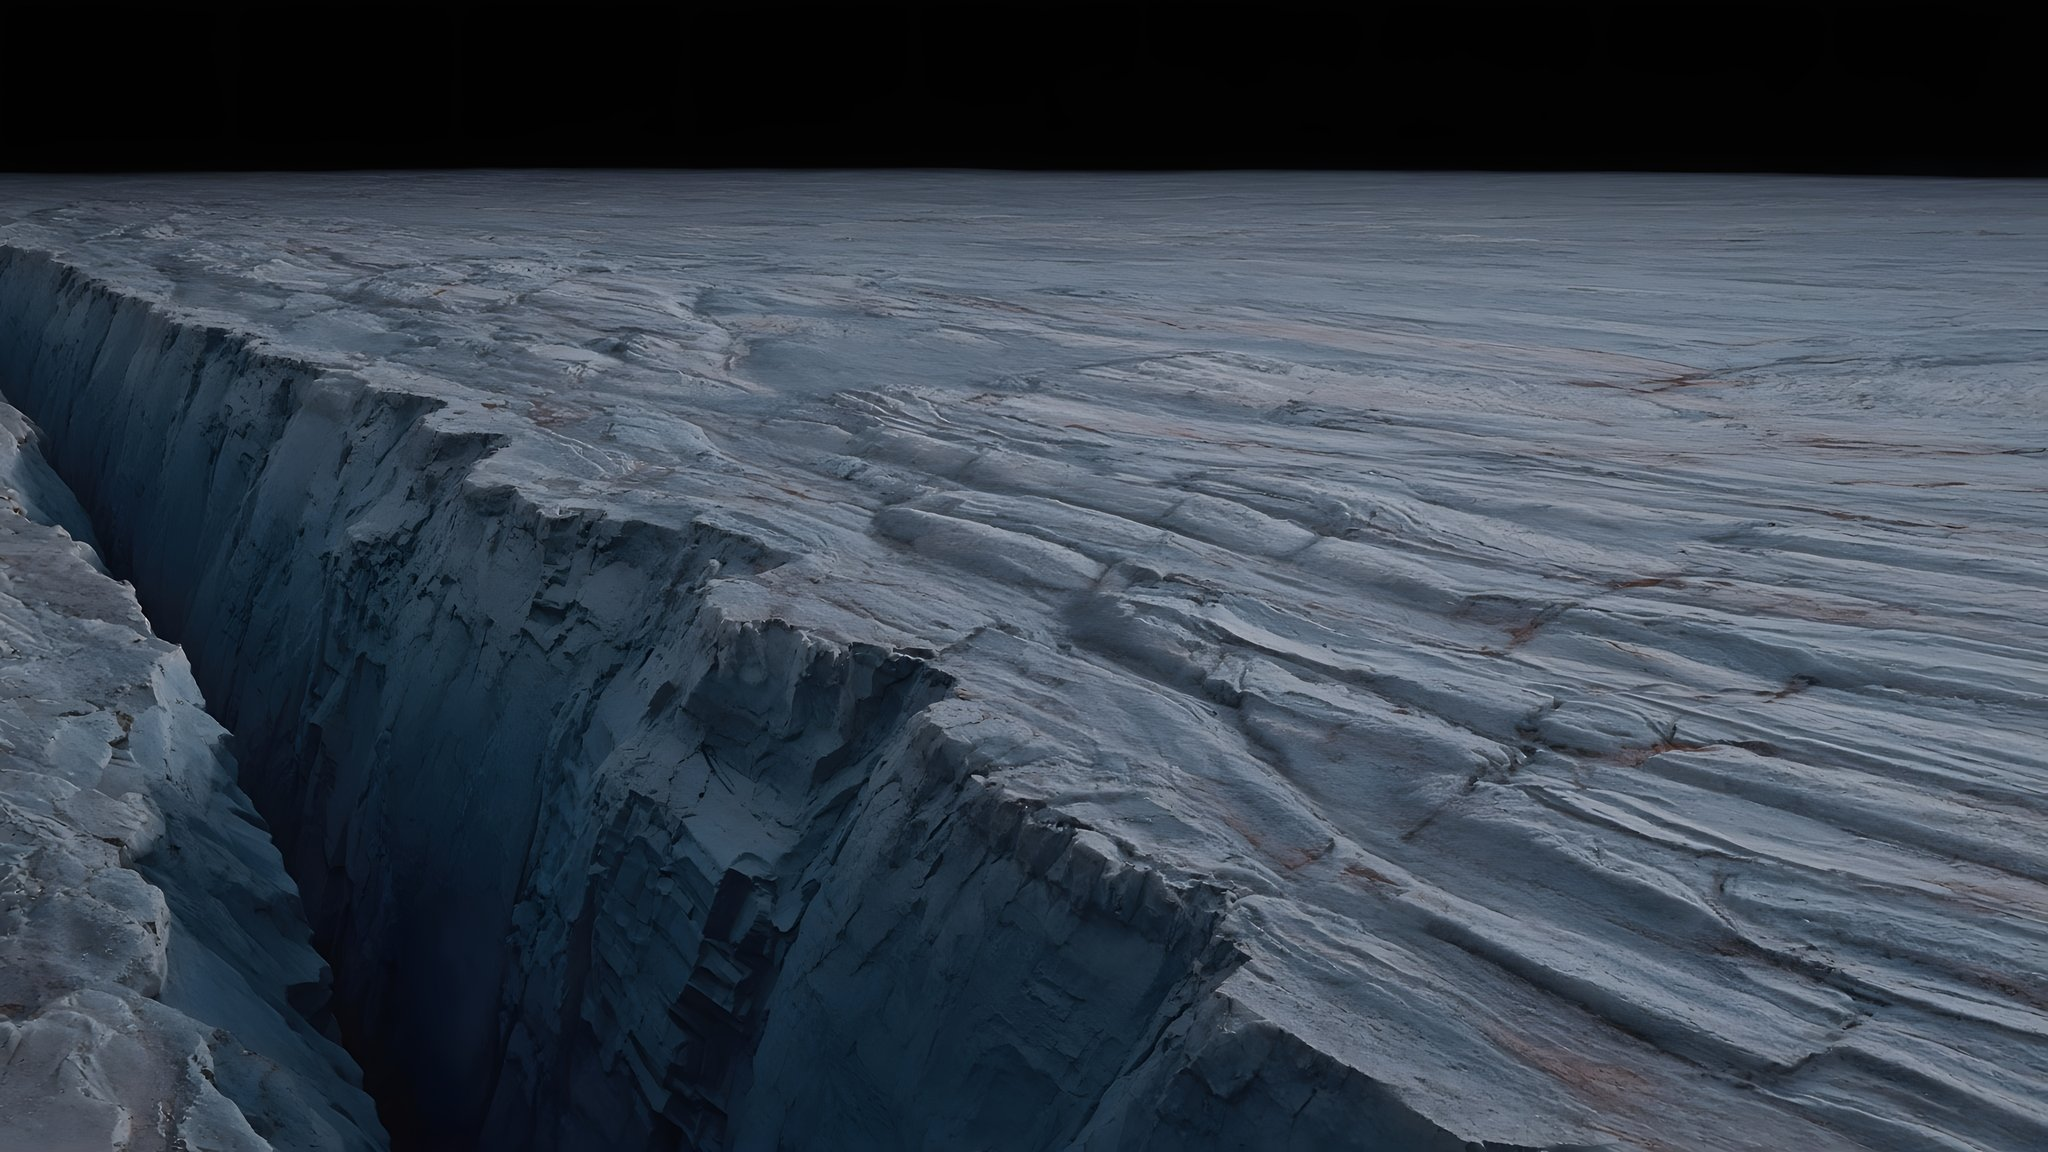
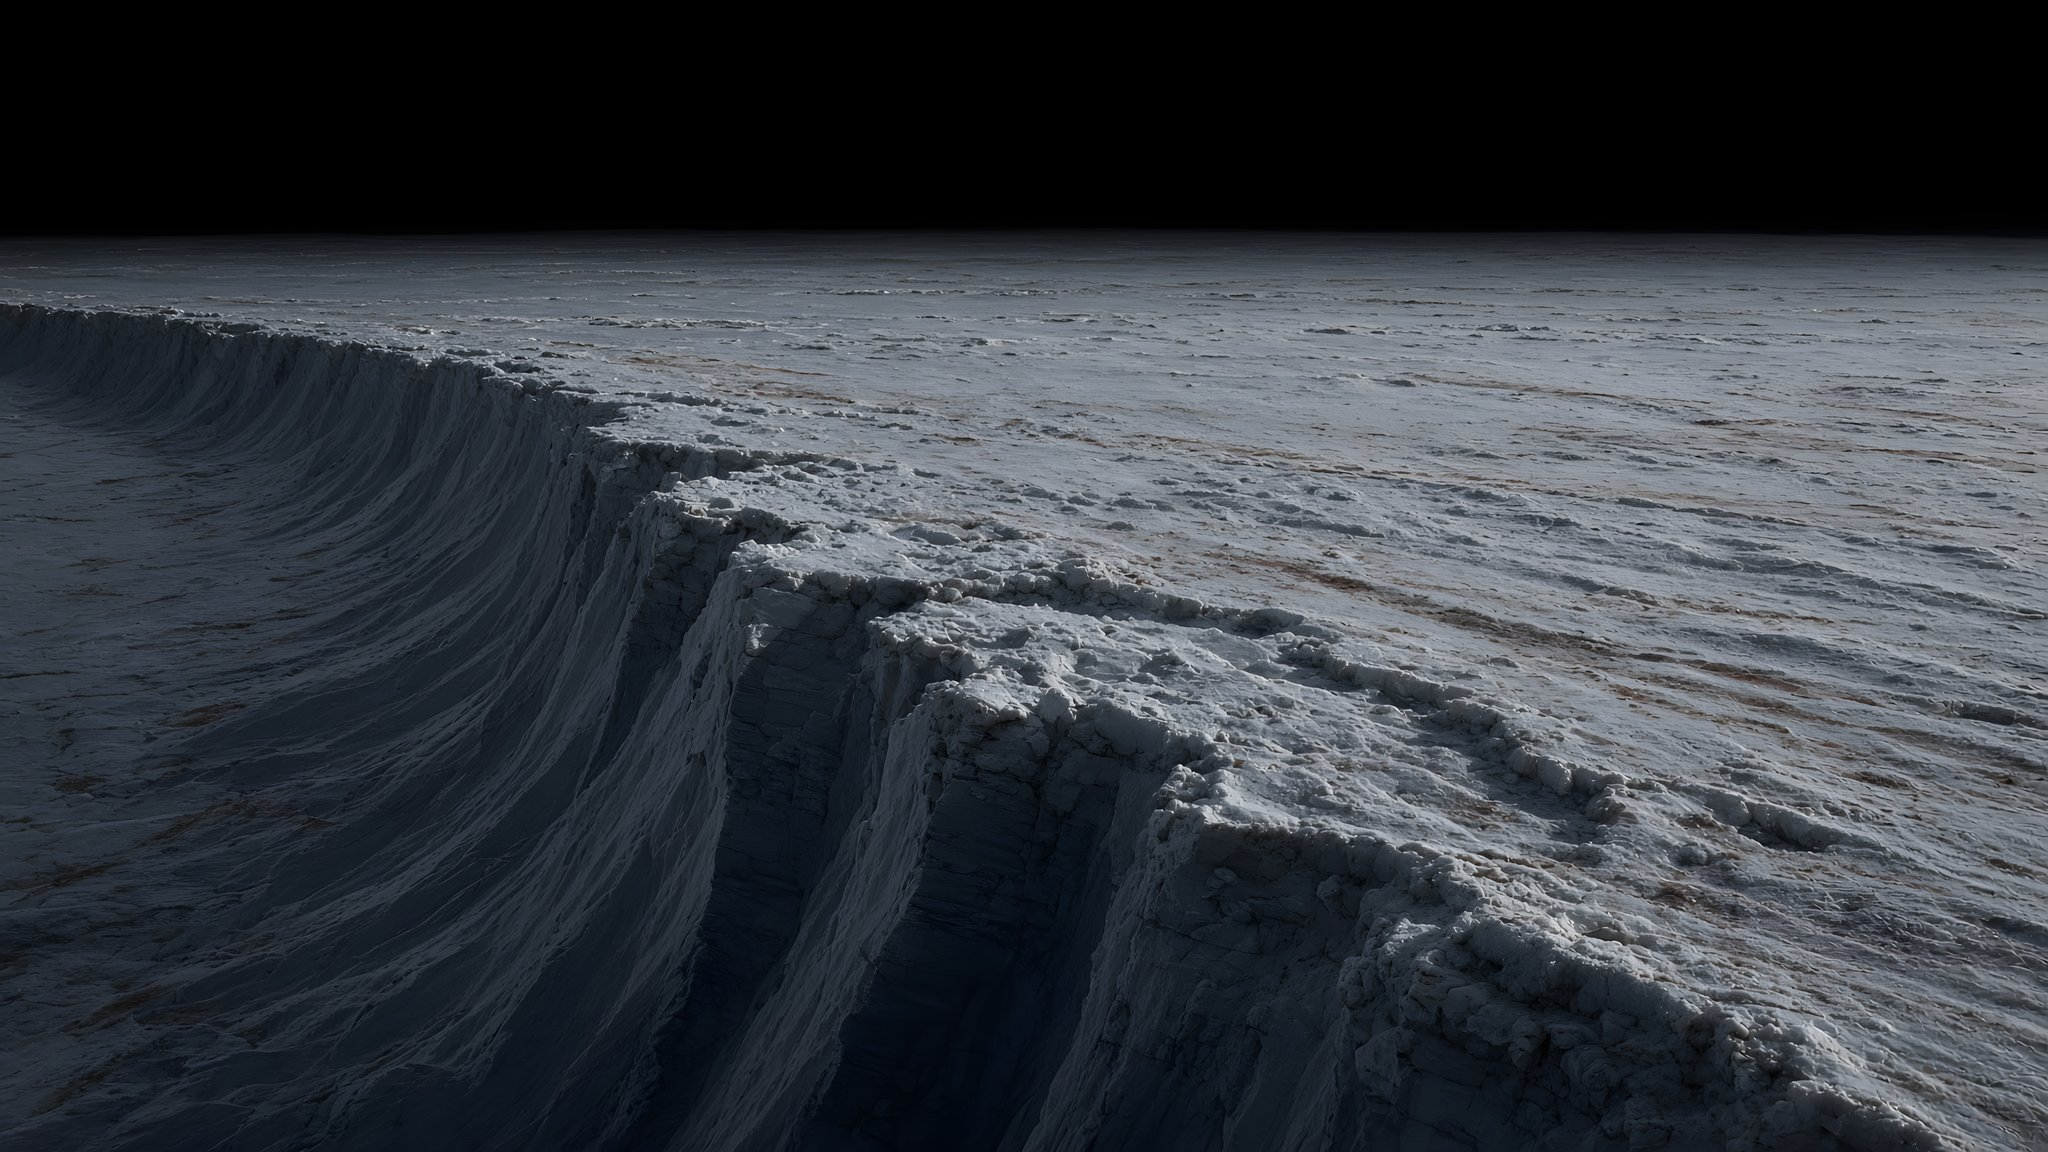
Surface: Crevasse Rim left — Mars's alternate left picture (crevasse-left-alt: curved wall continues the front's crevasse); horizon 0.212, keyBand 0.79–0.81

diff --git a/surface/src/main.js b/surface/src/main.js
@@ -436,7 +436,7 @@ registerLocation({
 });
 
 /* Crevasse Rim surround (Mars): measured horizon rows + sky key per picture */
-const LEFT_H  = { h: 0.149, lo: 0.006, hi: 0.016, band: [0.83, 0.86] };   // crevasse-left: wall on the left edge, black strip ~15%
+const LEFT_H  = { h: 0.212, lo: 0.006, hi: 0.016, band: [0.79, 0.81] };   // crevasse-left (alt): curved wall sweeping from the left foreground, black strip ~20%
 const RIGHT_H = { h: 0.217, lo: 0.006, hi: 0.016, band: [0.76, 0.79] };   // crevasse-right: crevasse receding centre, black strip ~21%
 const SIDE_BRIGHT = 1.6, SIDE_TINT = [1.0, 1.0, 1.0];
 const BACK_BRIGHT = 1.75, BACK_TINT = [1.0, 1.12, 1.3];                   // back reads darker/warmer than the front
